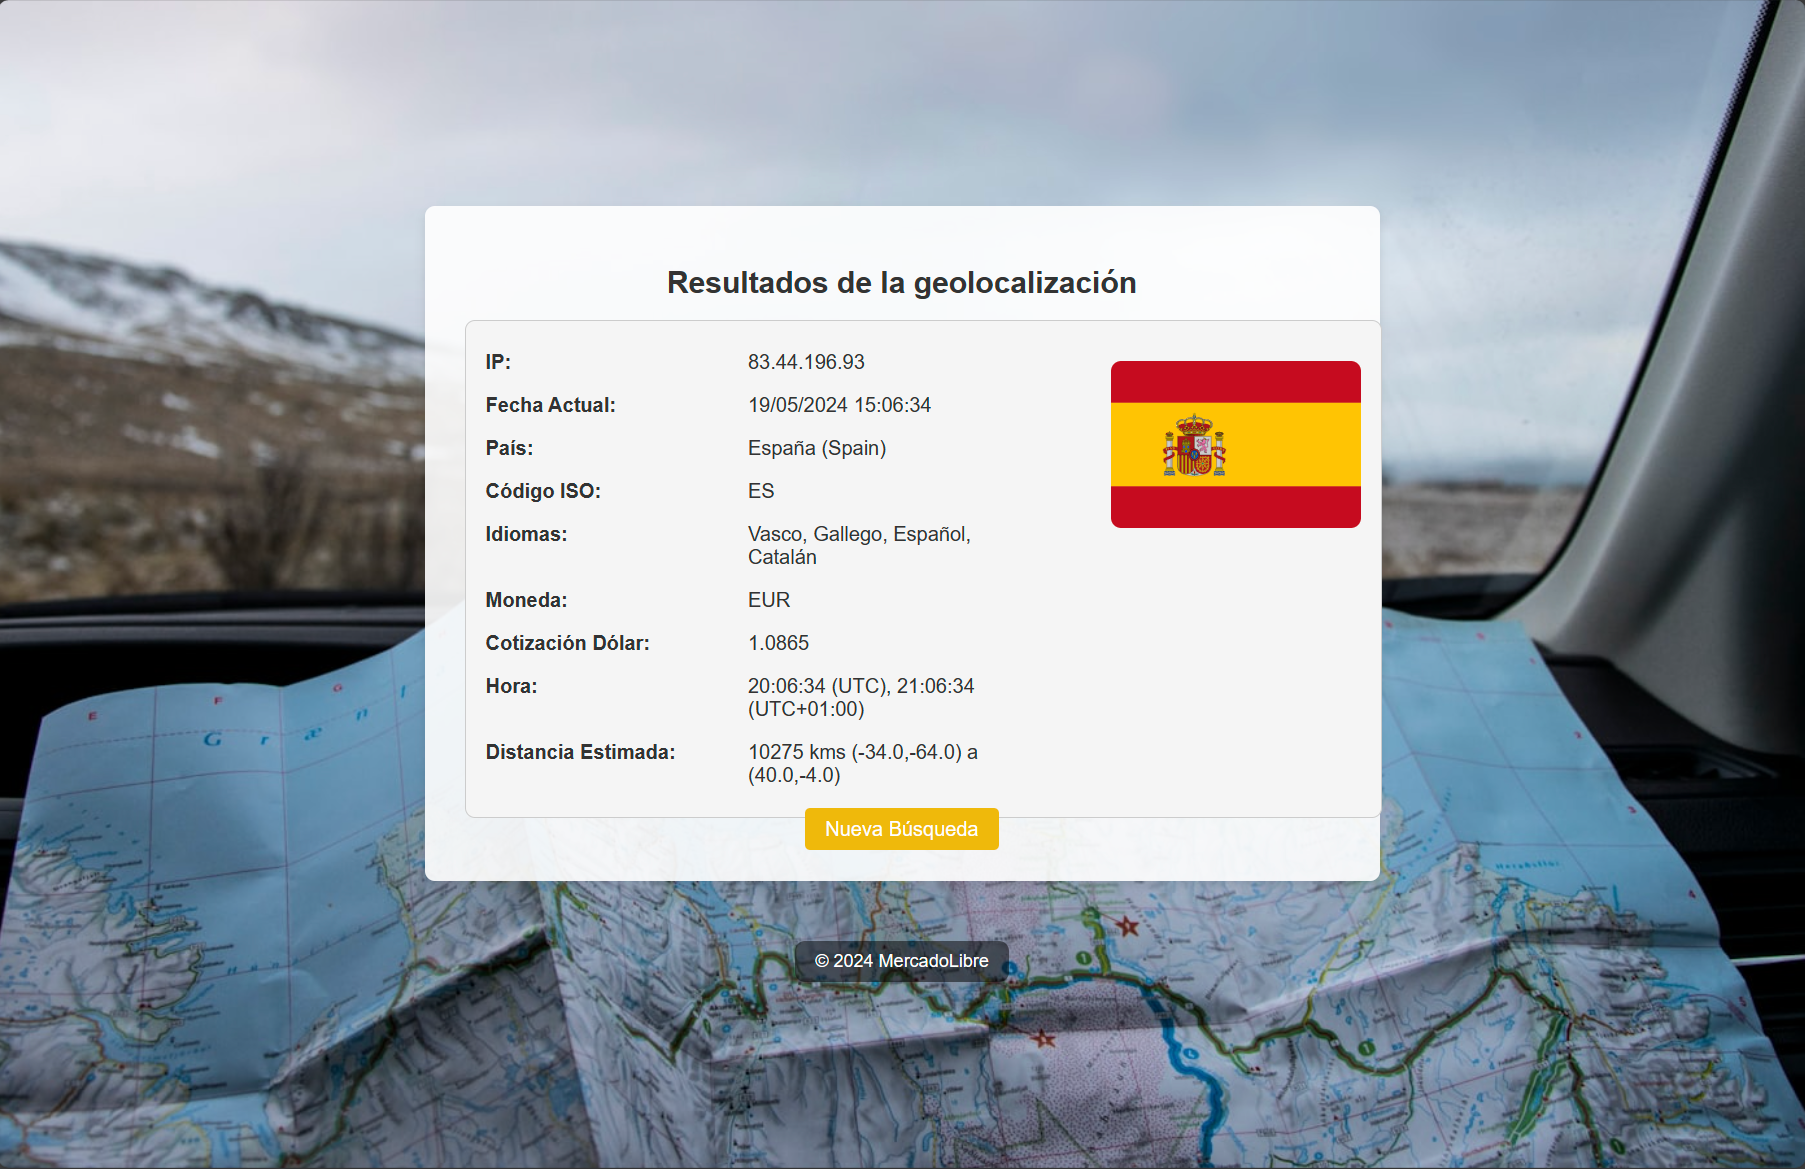
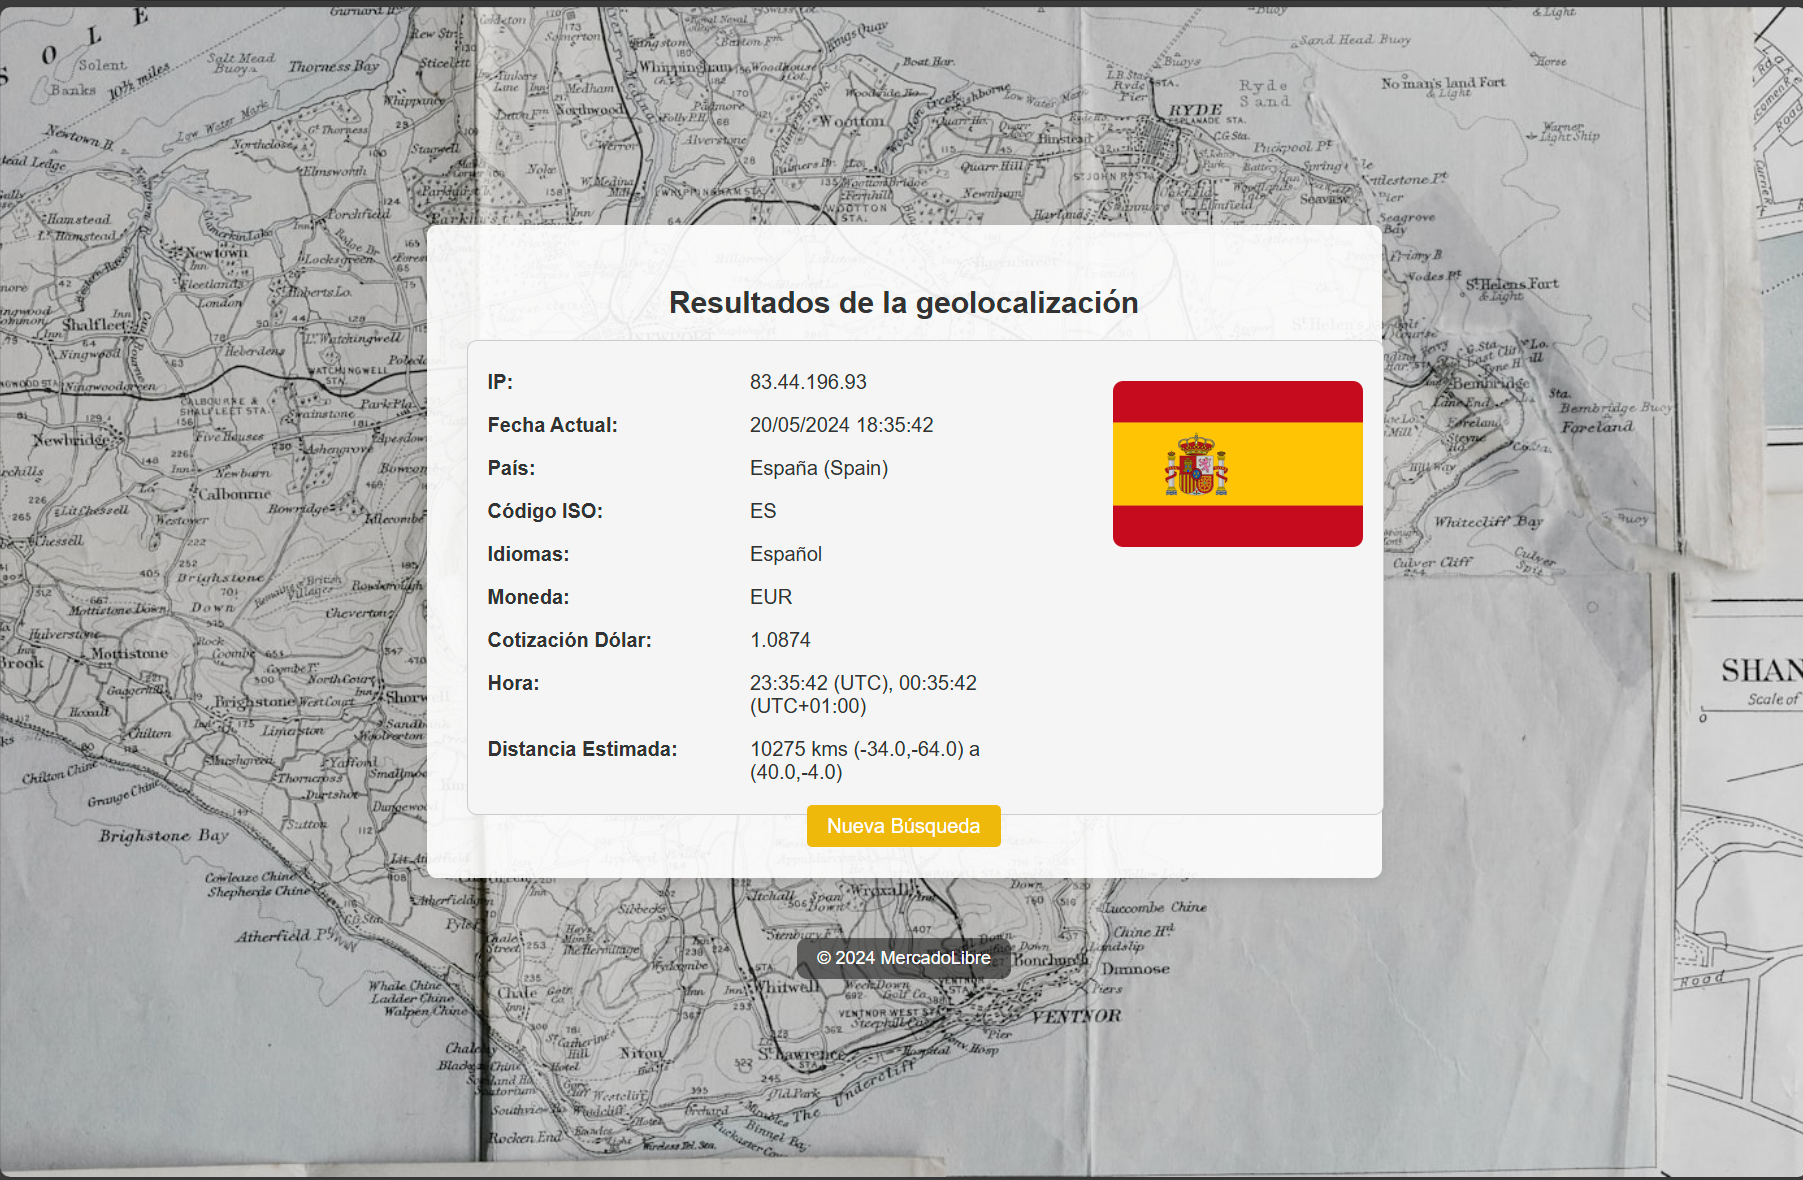
feat: Se cambia api publica para consulta de pais

diff --git a/src/main/java/com/mercadolibre/integration/dto/country/ResponseCountryInformationDto.java b/src/main/java/com/mercadolibre/integration/dto/country/ResponseCountryInformationDto.java
@@ -1,12 +1,12 @@
 package com.mercadolibre.integration.dto.country;
 
+import com.fasterxml.jackson.annotation.JsonProperty;
 import io.swagger.v3.oas.annotations.media.Schema;
 import lombok.*;
 
 import java.io.Serial;
 import java.io.Serializable;
 import java.util.List;
-import java.util.Map;
 
 /**
  * Clase que representa la información de un país obtenida de una respuesta de API.
@@ -18,6 +18,7 @@ import java.util.Map;
 @Builder
 @NoArgsConstructor
 @AllArgsConstructor
+@ToString
 public class ResponseCountryInformationDto implements Serializable {
     @Serial
     private static final long serialVersionUID = 1L;
@@ -25,29 +26,35 @@ public class ResponseCountryInformationDto implements Serializable {
     /**
      * {@link CountryCurrency}.
      */
+    @JsonProperty("currencies")
     @Schema(description = "Mapa de las monedas del país, donde la clave es el código de la moneda y el valor es un objeto",
             example = "\"currencies\": {\"EUR\": {\"name\": \"Euro\",\"symbol\": \"€\"}}")
-    private Map<String, CountryCurrency> currencies;
+    private List<CountryCurrency> currencies;
 
 
+    /**
+     * {@link LanguageInformation}.
+     */
     @Schema(description = "Mapa de los idiomas del país, donde la clave es el código del idioma y el valor es el nombre del idioma",
-            example = "\"languages\": {\"spa\": \"Spanish\",\"cat\": \"Catalan\",\"eus\": \"Basque\",\"glc\": \"Galician\"}")
-    private Map<String, String> languages;
+            example = "[{\"iso639_1\": \"es\",\"iso639_2\": \"spa\",\"name\": \"Spanish\",\"nativeName\": \"Español\"}]")
+    @JsonProperty("languages")
+    private List<LanguageInformation> languages;
 
 
     @Schema(description = "Lista de coordenadas de latitud y longitud del país",
             example = "\"latlng\": [40.0,-4.0]")
+    @JsonProperty("latlng")
     private List<Double> latlng;
 
 
     @Schema(description = "Lista de zonas horarias del país",
             example = "\"timezones\": [\"UTC\",\"UTC+01:00\"]")
+    @JsonProperty("timezones")
     private List<String> timezones;
 
-    /**
-     * {@link CountryFlag}.
-     */
+
     @Schema(description = "Objeto que representa la bandera del país",
             example = "\"flags\": {\"svg\": \"https://flagcdn.com/es.svg\"}")
-    private CountryFlag flags;
+    @JsonProperty("alpha2Code")
+    private String alpha2Code;
 }

diff --git a/src/main/java/com/mercadolibre/domain/service/DataResponseBuildServiceImpl.java b/src/main/java/com/mercadolibre/domain/service/DataResponseBuildServiceImpl.java
@@ -6,6 +6,7 @@ import com.mercadolibre.domain.TranslationService;
 import com.mercadolibre.domain.dto.response.CurrencyServiceResponse;
 import com.mercadolibre.domain.dto.response.GeoLocationDataResponse;
 import com.mercadolibre.domain.dto.response.TimeServiceResponse;
+import com.mercadolibre.integration.dto.country.LanguageInformation;
 import com.mercadolibre.integration.dto.country.ResponseCountryInformationDto;
 import com.mercadolibre.integration.dto.currency.ResponseCurrencyInformationDto;
 import com.mercadolibre.integration.dto.ip.ResponseIpInformationDto;
@@ -15,6 +16,7 @@ import org.springframework.stereotype.Service;
 
 import java.util.List;
 import java.util.Map;
+import java.util.stream.Collectors;
 
 import static com.mercadolibre.util.constants.Constants.*;
 
@@ -45,12 +47,12 @@ public class DataResponseBuildServiceImpl implements DataResponseBuildService {
                 .isoCode(ipInfo.getCountryCode())
                 .idiomas(buildLanguageMap(countryInfo.getLanguages()))
                 .moneda(CurrencyServiceResponse.builder()
-                        .codigo(financialService.getCountryCurrency(countryInfo.getCurrencies()))
+                        .codigo(countryInfo.getCurrencies().getFirst().getCode())
                         .cotizacionDolar(financialService.getUsdConversionRate(currencyInfo))
                         .build())
                 .hora(times)
                 .distanciaEstimada(buildDistanceString(distance, countryInfo))
-                .bandera(countryInfo.getFlags().getSvg())
+                .bandera(String.format("https://flagcdn.com/%s.svg", countryInfo.getAlpha2Code().toLowerCase()))
                 .build();
     }
 
@@ -92,7 +94,9 @@ public class DataResponseBuildServiceImpl implements DataResponseBuildService {
      * @param languages mapa original de idiomas.
      * @return mapa de idiomas traducidos.
      */
-    private Map<String, String> buildLanguageMap(Map<String, String> languages) {
-        return translationService.translateLanguages(languages);
+    private Map<String, String> buildLanguageMap(List<LanguageInformation> languages) {
+        Map<String, String> languageMap = languages.stream()
+                .collect(Collectors.toMap(LanguageInformation::getIso, LanguageInformation::getName));
+        return translationService.translateLanguages(languageMap);
     }
 }

diff --git a/src/main/java/com/mercadolibre/integration/impl/ConsultCountryApiServiceImpl.java b/src/main/java/com/mercadolibre/integration/impl/ConsultCountryApiServiceImpl.java
@@ -33,7 +33,9 @@ public class ConsultCountryApiServiceImpl implements ConsultCountryApiService {
     public Mono<ResponseCountryInformationDto> getCountryInformation(String countryName) {
         return webClient
                 .get()
-                .uri(configVariable.getConsultCountryHost().concat(configVariable.getConsultCountryUrl()).concat(countryName))
+                .uri(configVariable.getConsultCountryHost().concat(configVariable.getConsultCountryUrl())
+                        .concat(countryName)
+                        .concat("?access_key=").concat(configVariable.getConsultCountryAccessKey()))
                 .retrieve()
                 .onStatus(HttpStatus.INTERNAL_SERVER_ERROR::equals,
                         clientResponse -> Mono.error(new ApiException(INTERNAL_SERVER_ERROR_CODE, HttpStatus.INTERNAL_SERVER_ERROR,
@@ -45,7 +47,7 @@ public class ConsultCountryApiServiceImpl implements ConsultCountryApiService {
                         return Mono.error(new ApiException(INTERNAL_SERVER_ERROR_CODE, HttpStatus.INTERNAL_SERVER_ERROR,
                                 String.format(ERROR_GETTING_INFORMATION, NAME_CONSULT_COUNTRY_API, "No country information found")));
                     }
-                    return Mono.just(list.get(0));
+                    return Mono.just(list.getFirst());
                 })
                 .timeout(Duration.ofMillis(configVariable.getTimeoutConfig()))
                 .onErrorResume(Exception.class, exception -> Mono.error(new ApiException(INTERNAL_SERVER_ERROR_CODE, HttpStatus.INTERNAL_SERVER_ERROR,

diff --git a/src/test/java/com/mercadolibre/DummyMock.java b/src/test/java/com/mercadolibre/DummyMock.java
@@ -2,7 +2,7 @@ package com.mercadolibre;
 
 import com.mercadolibre.domain.dto.response.*;
 import com.mercadolibre.integration.dto.country.CountryCurrency;
-import com.mercadolibre.integration.dto.country.CountryFlag;
+import com.mercadolibre.integration.dto.country.LanguageInformation;
 import com.mercadolibre.integration.dto.country.ResponseCountryInformationDto;
 import com.mercadolibre.integration.dto.currency.ResponseCurrencyInformationDto;
 import com.mercadolibre.integration.dto.ip.ResponseIpInformationDto;
@@ -10,6 +10,7 @@ import lombok.AccessLevel;
 import lombok.NoArgsConstructor;
 import org.springframework.http.ResponseEntity;
 
+import java.util.ArrayList;
 import java.util.Collections;
 import java.util.List;
 import java.util.Map;
@@ -23,12 +24,13 @@ public class DummyMock {
     }
 
     public static ResponseCountryInformationDto buildGetCountryInformation() {
+
         return ResponseCountryInformationDto.builder()
                 .latlng(List.of(40D, 30D))
-                .currencies(Map.of("EUR", CountryCurrency.builder().name("Euro").symbol("E").build()))
-                .flags(CountryFlag.builder().svg("https://flagcdn.com/es.svg").build())
-                .languages(Map.of("spa", "Spanish"))
+                .currencies(List.of(CountryCurrency.builder().name("peso").code("COP").symbol("$").build()))
+                .languages(List.of(LanguageInformation.builder().name("Spanish").iso("es").build()))
                 .timezones(List.of("UTC", "UTC+01:00"))
+                .alpha2Code("co")
                 .build();
     }
 

diff --git a/src/main/java/com/mercadolibre/domain/service/GeoLocationIpServiceImpl.java b/src/main/java/com/mercadolibre/domain/service/GeoLocationIpServiceImpl.java
@@ -1,6 +1,9 @@
 package com.mercadolibre.domain.service;
 
-import com.mercadolibre.domain.*;
+import com.mercadolibre.domain.DataResponseBuildService;
+import com.mercadolibre.domain.GeoLocationIpService;
+import com.mercadolibre.domain.StatisticsService;
+import com.mercadolibre.domain.TranslationService;
 import com.mercadolibre.domain.dto.response.DataServiceResponse;
 import com.mercadolibre.domain.dto.response.TimeServiceResponse;
 import com.mercadolibre.integration.ConsultCountryApiService;
@@ -31,7 +34,6 @@ public class GeoLocationIpServiceImpl implements GeoLocationIpService {
     private final ConsultCountryApiService consultCountryApiService;
     private final ConsultCurrencyApiService consultCurrencyApiService;
     private final DataResponseBuildService dataResponseBuildService;
-    private final FinancialService financialService;
     private final StatisticsService statisticsService;
     private final TranslationService translationService;
 
@@ -69,7 +71,7 @@ public class GeoLocationIpServiceImpl implements GeoLocationIpService {
      * @return información de la moneda.
      */
     private Mono<ResponseCurrencyInformationDto> getCurrencyInformation(ResponseCountryInformationDto countryInfo) {
-        String currencyCode = financialService.getCountryCurrency(countryInfo.getCurrencies());
+        String currencyCode = countryInfo.getCurrencies().getFirst().getCode();
         return consultCurrencyApiService.getCurrencyInformation(currencyCode);
     }
 

diff --git a/src/test/java/com/mercadolibre/domain/service/GeoLocationIpServiceImplTest.java b/src/test/java/com/mercadolibre/domain/service/GeoLocationIpServiceImplTest.java
@@ -58,7 +58,6 @@ class GeoLocationIpServiceImplTest {
         when(consultCountryApiService.getCountryInformation(anyString())).thenReturn(Mono.just(countryInfo));
         when(consultCurrencyApiService.getCurrencyInformation(anyString())).thenReturn(Mono.just(currencyInfo));
         when(dataResponseBuildService.buildGeoLocationResponse(anyString(), any(), any(), any(), any(), anyLong())).thenReturn(geoLocationResponse);
-        when(financialService.getCountryCurrency(any())).thenReturn("EUR");
         when(translationService.translateCountry(anyString())).thenReturn("España");
         when(statisticsService.updateStatistics(anyString(), anyLong())).thenReturn(Mono.empty());
 
@@ -73,7 +72,6 @@ class GeoLocationIpServiceImplTest {
         verify(consultCountryApiService).getCountryInformation(anyString());
         verify(consultCurrencyApiService).getCurrencyInformation(anyString());
         verify(dataResponseBuildService).buildGeoLocationResponse(anyString(), any(), any(), any(), any(), anyLong());
-        verify(financialService).getCountryCurrency(any());
         verify(translationService).translateCountry(anyString());
         verify(statisticsService).updateStatistics(anyString(), anyLong());
     }

diff --git a/src/main/java/com/mercadolibre/domain/service/FinancialServiceImpl.java b/src/main/java/com/mercadolibre/domain/service/FinancialServiceImpl.java
@@ -1,12 +1,10 @@
 package com.mercadolibre.domain.service;
 
 import com.mercadolibre.domain.FinancialService;
-import com.mercadolibre.integration.dto.country.CountryCurrency;
 import com.mercadolibre.integration.dto.currency.ResponseCurrencyInformationDto;
 import com.mercadolibre.util.api.NumberUtils;
 import org.springframework.stereotype.Service;
 
-import java.util.Map;
 import java.util.Objects;
 
 import static com.mercadolibre.util.constants.Constants.CURRENCY_CONVERSION_RATE;
@@ -17,15 +15,6 @@ import static com.mercadolibre.util.constants.Constants.EMPTY_CURRENCY_INFORMATI
  */
 @Service
 public class FinancialServiceImpl implements FinancialService {
-
-    /**
-     * {@inheritDoc}
-     */
-    @Override
-    public String getCountryCurrency(Map<String, CountryCurrency> currencyMap) {
-        Map.Entry<String, CountryCurrency> entry = currencyMap.entrySet().iterator().next();
-        return entry.getKey();
-    }
 
     /**
      * {@inheritDoc}

diff --git a/src/main/java/com/mercadolibre/domain/FinancialService.java b/src/main/java/com/mercadolibre/domain/FinancialService.java
@@ -1,21 +1,12 @@
 package com.mercadolibre.domain;
 
-import com.mercadolibre.integration.dto.country.CountryCurrency;
 import com.mercadolibre.integration.dto.currency.ResponseCurrencyInformationDto;
-
-import java.util.Map;
 
 /**
  * Servicio financiero que proporciona información sobre la moneda y las tasas de conversión.
  */
 public interface FinancialService {
-    /**
-     * Obtiene la moneda del país a partir del mapa general que responde el api pública.
-     *
-     * @param currencyMap mapa de monedas del país.
-     * @return clave de la moneda del país.
-     */
-    String getCountryCurrency(Map<String, CountryCurrency> currencyMap);
+
 
     /**
      * Obtiene la tasa de conversión a USD de la información de la moneda.

diff --git a/src/test/java/com/mercadolibre/domain/service/FinancialServiceImplTest.java b/src/test/java/com/mercadolibre/domain/service/FinancialServiceImplTest.java
@@ -1,6 +1,5 @@
 package com.mercadolibre.domain.service;
 
-import com.mercadolibre.integration.dto.country.CountryCurrency;
 import com.mercadolibre.integration.dto.currency.ResponseCurrencyInformationDto;
 import org.junit.jupiter.api.Assertions;
 import org.junit.jupiter.api.Test;
@@ -15,11 +14,6 @@ class FinancialServiceImplTest {
     @InjectMocks
     private FinancialServiceImpl financialServiceImpl;
 
-    @Test
-    void testGetCountryCurrency() {
-        String result = financialServiceImpl.getCountryCurrency(Map.of("EUR", CountryCurrency.builder().symbol("E").name("Euro").build()));
-        Assertions.assertEquals("EUR", result);
-    }
 
     @Test
     void testGetUsdConversionRate() {

diff --git a/src/main/java/com/mercadolibre/integration/dto/country/CountryCurrency.java b/src/main/java/com/mercadolibre/integration/dto/country/CountryCurrency.java
@@ -3,7 +3,6 @@ package com.mercadolibre.integration.dto.country;
 import io.swagger.v3.oas.annotations.media.Schema;
 import lombok.*;
 
-import java.io.Serial;
 import java.io.Serializable;
 
 /**
@@ -17,8 +16,8 @@ import java.io.Serializable;
 @NoArgsConstructor
 @AllArgsConstructor
 public class CountryCurrency implements Serializable {
-    @Serial
-    private static final long serialVersionUID = 1L;
+    @Schema(description = "Codigo de la moneda", example = "EUR")
+    private String code;
 
     @Schema(description = "Nombre de la moneda", example = "Euro")
     private String name;

diff --git a/src/main/java/com/mercadolibre/integration/dto/country/LanguageInformation.java b/src/main/java/com/mercadolibre/integration/dto/country/LanguageInformation.java
@@ -1,0 +1,21 @@
+package com.mercadolibre.integration.dto.country;
+
+import com.fasterxml.jackson.annotation.JsonProperty;
+import io.swagger.v3.oas.annotations.media.Schema;
+import lombok.*;
+
+import java.io.Serializable;
+
+@Getter
+@Setter
+@Builder
+@NoArgsConstructor
+@AllArgsConstructor
+public class LanguageInformation implements Serializable {
+    @JsonProperty(value = "iso639_1")
+    @Schema(description = "codigo del idioma",example = "es")
+    private String iso;
+
+    @Schema(description = "Nombre del idioma",example = "Spanish")
+    private String name;
+}

diff --git a/src/test/java/com/mercadolibre/integration/impl/ConsultCountryApiServiceImplTest.java b/src/test/java/com/mercadolibre/integration/impl/ConsultCountryApiServiceImplTest.java
@@ -29,6 +29,7 @@ class ConsultCountryApiServiceImplTest {
         configVariable = new ConfigVariable();
         ReflectionTestUtils.setField(configVariable, "consultCountryHost", "https://api-test.com");
         ReflectionTestUtils.setField(configVariable, "consultCountryUrl", "/prueba");
+        ReflectionTestUtils.setField(configVariable, "consultCountryAccessKey", "123123");
         ReflectionTestUtils.setField(configVariable, "timeoutConfig", 50000L);
         consultCountryApiServiceImpl = new ConsultCountryApiServiceImpl(webClient, configVariable);
     }
